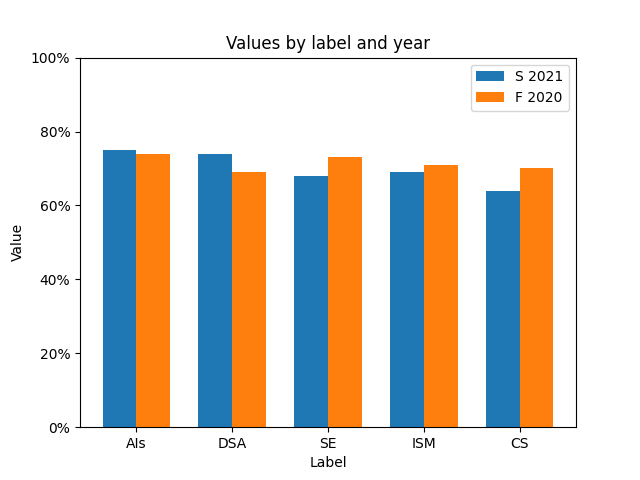
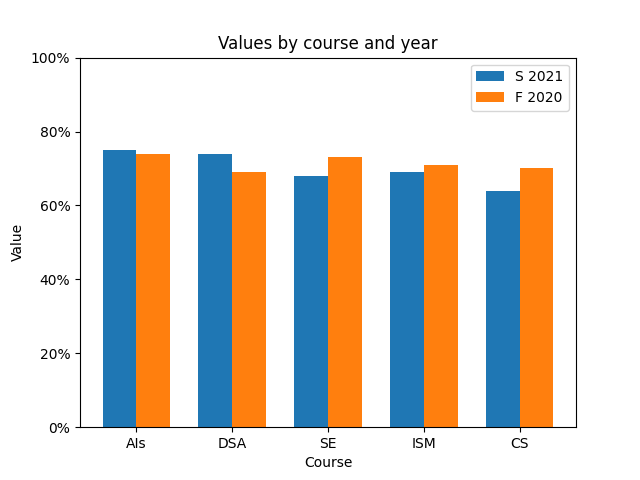
smth

Changed region(s): [[0.3438, 0.0625, 0.6875, 0.125], [0.4688, 0.9375, 0.5625, 1.0]]

diff --git a/templates/index.html b/templates/index.html
@@ -29,8 +29,15 @@
                     <a
                       class="full-cell-link"
                       href="/populations/{{ row[0] }}/{{ row[1] }}/{{ row[2] }}"
-                      >{{ row[0] }} - {{ row[1][0] }}({{ row[2] }}({{ row[3]
-                      }}))
+                      ><table>
+                        <tr>
+                          <td>{{ row[0] }}</td>
+                          <td>-</td>
+                          <td>{{ row[1][0] }}{{ row[2] }}</td>
+                          <td></td>
+                          <td>({{ row[3]}})</td>
+                        </tr>
+                      </table>
                     </a>
                   </u>
                 </td>
@@ -61,9 +68,16 @@
             <table>
               {% for row in overall_attendance %}
               <tr>
-                {% for cell in row %}
-                <td>{{ cell }}</td>
-                {% endfor %}
+                <td>
+                  <table>
+                    <tr>
+                      <td>{{ row[0] }}</td>
+                      <td>-</td>
+                      <td>{{ row[1][0] }}{{ row[2] }}</td>
+                      <td>({{ row[3]}})</td>
+                    </tr>
+                  </table>
+                </td>
               </tr>
               {% endfor %}
             </table>

diff --git a/src/second_chart.py b/src/second_chart.py
@@ -42,9 +42,9 @@ def create_chart(data):
     ax.yaxis.set_major_formatter(yticks)
 
     # Set the x-axis labels and title
-    ax.set_xlabel('Label')
+    ax.set_xlabel('Course')
     ax.set_ylabel('Value')
-    ax.set_title('Values by label and year')
+    ax.set_title('Values by course and year')
 
     # Set the x-axis tick labels
     ax.set_xticks(label_positions + bar_width / 2)